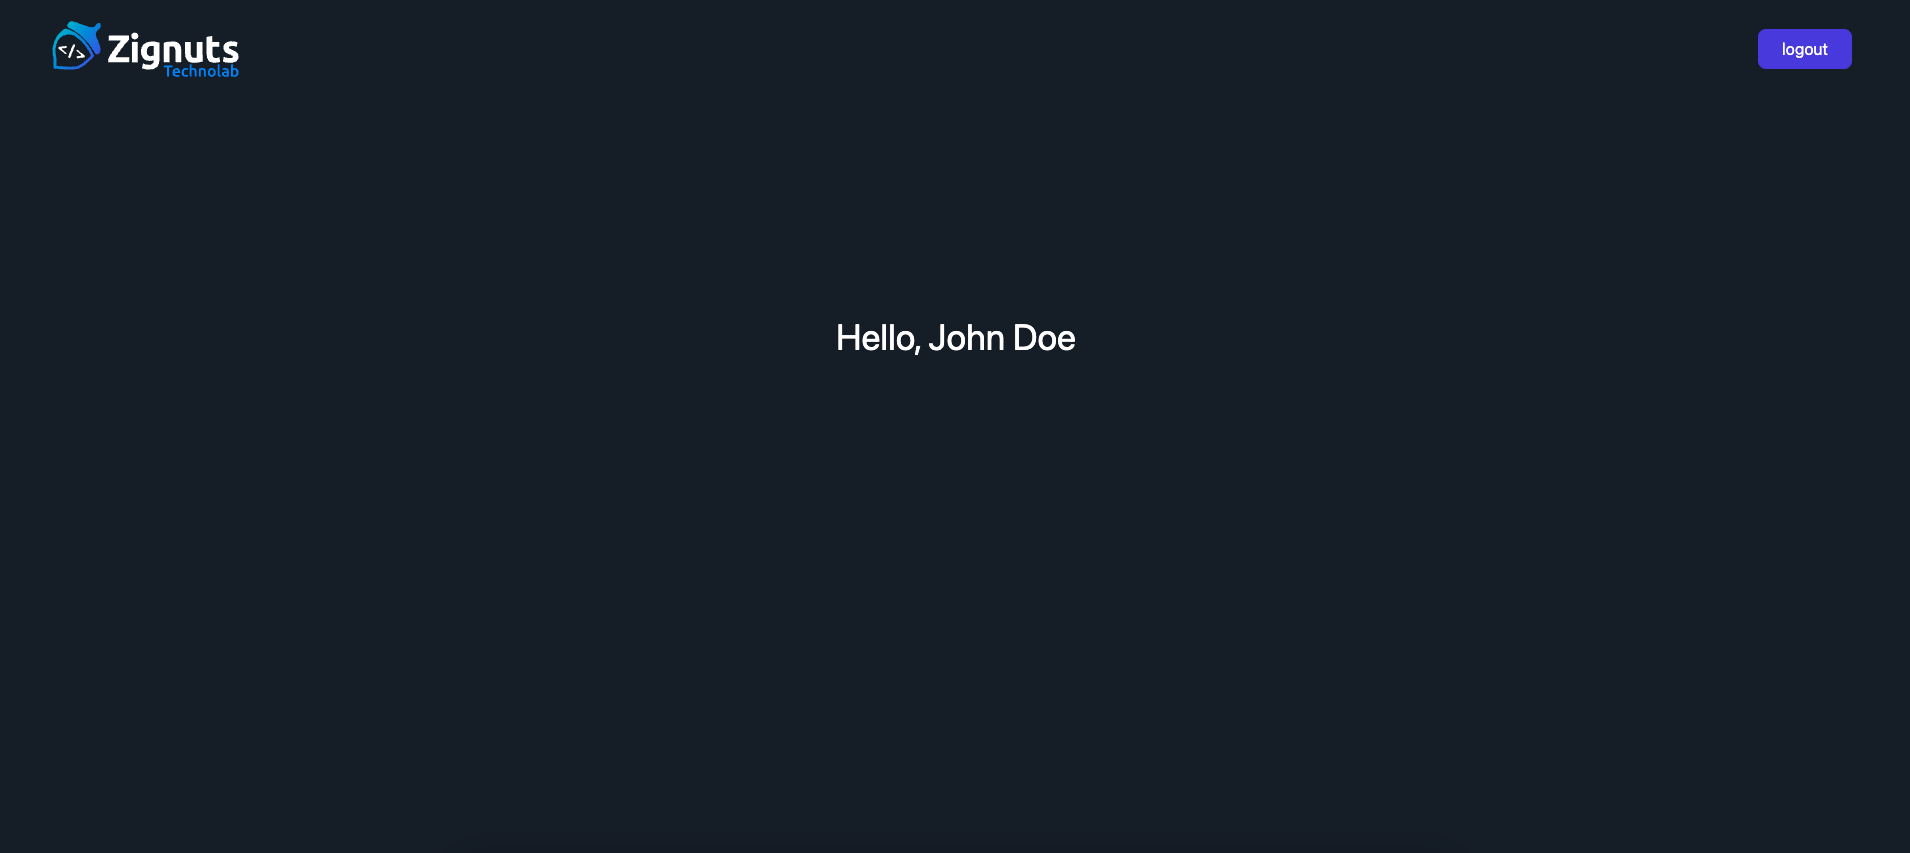
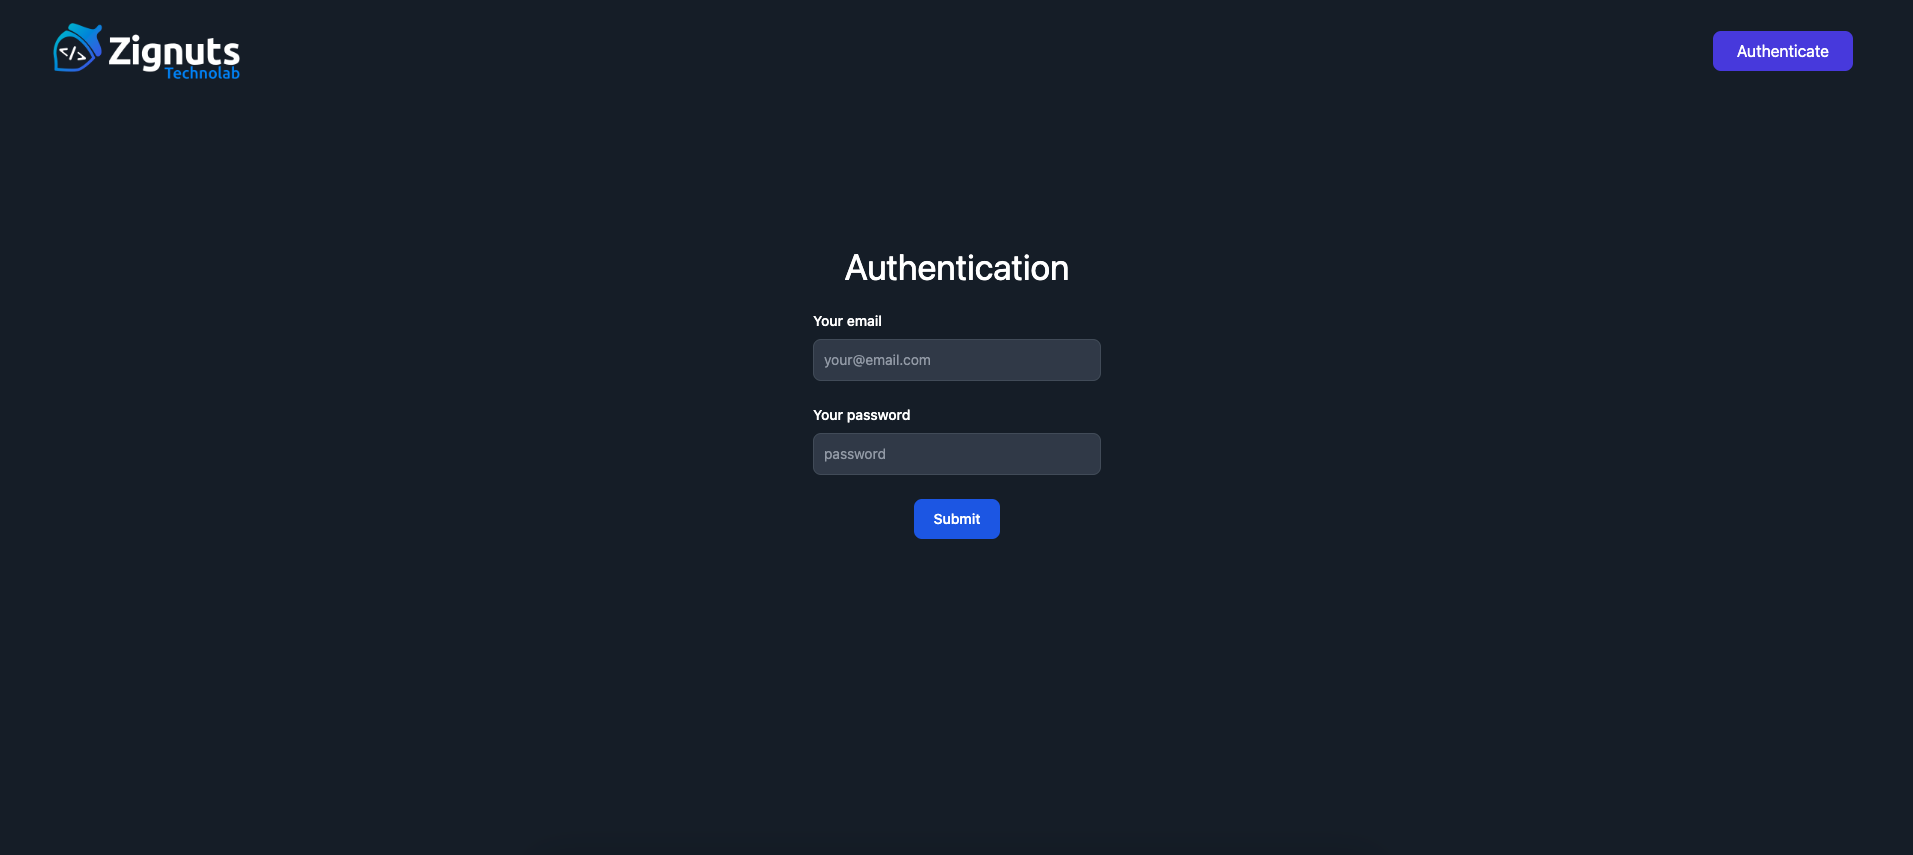
update readme

diff --git a/README.md b/README.md
@@ -1,20 +1,20 @@
-# JWT-Authentication in Node JS with Express and MongoDB
+# JWT-Authentication in MERN Stack
 
-Welcome to the JWT Authentication with Express and MongoDB project! This repository contains a Node.js application demonstrating how to implement JSON Web Token (JWT) authentication. Follow the steps below to set up and run the project.
+Welcome to the JWT Authentication with MERN Stack project. Follow the steps below to set up and run the project.
 
 ## About this Project
 
-This project presents a straightforward authentication system utilizing JSON Web Tokens (JWT) for user authentication. It provides insights into real-world authentication scenarios, illustrating the communication between clients and servers using JWT tokens. Additionally, the project demonstrates the process of token signing and verification on the server side.
+This project presents a straightforward authentication system utilizing JSON Web Tokens (JWT) for user authentication. It provides insights into real-world authentication scenarios using MERN Stack. Additionally, the project demonstrates the process of token signing and verification on the server side.
 
 ## Technologies Used
 
 This project leverages a variety of technologies to achieve its goals. Some of the key technologies include:
 
+- **React.js**
 - **Node.js**
 - **Express**
 - **MongoDB**
 - **JSON Web Tokens (JWT)**
-- **EJS**
 
 ## Clone the Repository
 
@@ -34,11 +34,10 @@ npm install
 
 This will generate a "node_modules" folder in your root directory.
 
-## Project Structure
-
-- The "public" and "views" folders contain static files, such as EJS templates and images.
-
-- Open the `index.js` file to explore the project logic and make necessary configurations.
+```bash
+cd client
+npm install
+```
 
 ## Configuration
 
@@ -50,16 +49,24 @@ This will generate a "node_modules" folder in your root directory.
 
 After configuring the application, run the following command:
 
+For server:
+
+```bash
+nodemon index.js
+```
+
+For client:
+
 ```bash
 npm start
 ```
 
-Visit `http://localhost:3000` in your browser to interact with the JWT authentication demo. The application provides routes for signup, login, and a protected homepage.
+Visit `http://localhost:3000` in your browser to interact with the JWT authentication demo. The application provides routes for authentication and protected page.
 
 ## Usage and Testing
 
-1. Click on the signup button to register.
-2. Once registered, you will be redirected to the homepage.
+1. Click on the submit button to authenticate.
+2. Once authenticated, you will be redirected to the private page.
 3. Open the developer tools in your browser and navigate to Application -> Storage -> Cookies to view the JWT token.
 4. Even after closing the tab or browser, you'll remain logged in, demonstrating the token's persistence.
 5. To logout, click on the logout button. This will clear the JWT token from your cookie and redirect you to the homepage.
@@ -76,13 +83,9 @@ Visit `http://localhost:3000` in your browser to interact with the JWT authentic
 
 ![Local Image](./screenshots/Homepage.png)
 
-#### Signup page:
+#### Private page:
 
-![Local Image](<./screenshots/Signup Page.png>)
-
-#### Login page:
-
-![Local Image](<./screenshots/Login Page.png>)
+![Local Image](./screenshots/Privatepage.png)
 
 ## Conclusion
 
